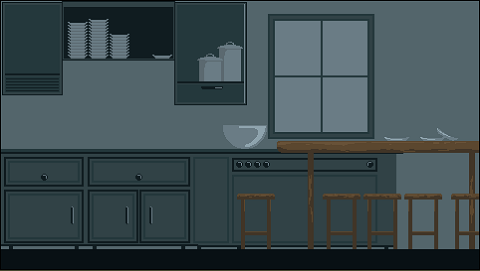
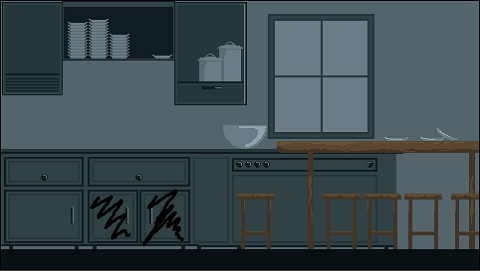
Made Kitchen Scene and Interactable

Changed region(s): [[0.1875, 0.679, 0.375, 0.9151]]

diff --git a/src/main/java/puntozero/liftoff/prefabs/Interactable.java b/src/main/java/puntozero/liftoff/prefabs/Interactable.java
@@ -1,0 +1,127 @@
+package puntozero.liftoff.prefabs;
+
+import processing.event.MouseEvent;
+import pxp.engine.core.GameObject;
+import pxp.engine.core.RectTransform;
+import pxp.engine.core.component.BoxCollider;
+import pxp.engine.core.component.Collider;
+import pxp.engine.core.component.Component;
+import pxp.engine.core.component.ui.Button;
+import pxp.engine.core.component.ui.Canvas;
+import pxp.engine.core.component.ui.Image;
+import pxp.engine.data.Vector2;
+import pxp.engine.data.Vector3;
+import pxp.engine.data.event.PXPEvent;
+import pxp.engine.data.event.PXPSingleEvent;
+import pxp.engine.data.ui.InteractableTransition;
+import pxp.engine.data.ui.RenderMode;
+import pxp.logging.Debug;
+
+import java.util.ArrayList;
+import java.util.List;
+
+public class Interactable extends GameObject
+{
+    private final PXPEvent onInteract;
+    private boolean canInteract = false;
+
+    private class InteractableHandler extends Component {
+        @Override
+        public void triggerEnter(Collider collider) {
+            if (!canInteract) return;
+            if (!collider.gameObject.name.equals("levelPlayer")) return;
+
+            onInteract.invoke();
+        }
+        @Override
+        public void triggerExit(Collider collider) {
+            if (!canInteract) return;
+            if (!collider.gameObject.name.equals("levelPlayer")) return;
+
+            onInteract.invoke();
+        }
+    }
+
+    public Interactable(
+            String name,
+            Vector2 offset,
+            Vector2 halfSize,
+            Image image,
+            PXPEvent onInteract) {
+        this(name, offset, halfSize, image, onInteract, new Component[0], new GameObject[0]);
+    }
+
+    public Interactable(
+            String name,
+            Vector2 offset,
+            Vector2 halfSize,
+            Image image,
+            PXPEvent onInteract,
+            Component[] components,
+            GameObject[] children) {
+        super(name);
+
+        this.onInteract = onInteract;
+
+        Component[] intComponents = new Component[] {
+            new Canvas(RenderMode.WORLD),
+            new InteractableHandler(),
+            new BoxCollider(offset, halfSize) {{
+                trigger = true;
+            }},
+        };
+
+        List<Component> allComponents = new ArrayList<>(List.of(components));
+        allComponents.addAll(List.of(intComponents));
+        this.setComponents(allComponents.toArray(new Component[0]));
+
+        List<GameObject> allChildren = new ArrayList<>(List.of(children));
+        allChildren.add(createButton(image));
+        this.setChildren(allChildren.toArray(new GameObject[0]));
+    }
+
+    private PXPSingleEvent<MouseEvent> onClick() {
+        return new PXPSingleEvent<>() {
+            @Override
+            public void invoke(MouseEvent mouseEvent) {
+                canInteract = true;
+            }
+        };
+    }
+
+    private GameObject createButton(Image image) {
+        image.usePixelsPerUnit = true;
+        Vector2 size = calcImageSize(image);
+
+        return new GameObject("intButton", new Component[] {
+            new Button(InteractableTransition.COLOR) {{
+                targetImage = image;
+                onClick = onClick();
+            }}
+        }, new GameObject[] {
+            new GameObject("intImage", new Component[] { image }) {{
+                transform = new RectTransform(
+                    new Vector2(0,0),
+                    new Vector3(0,0,0),
+                    new Vector2(1,1),
+                    size
+                );
+            }}
+        }) {{
+            transform = new RectTransform(
+                new Vector2(0,0),
+                new Vector3(0,0,0),
+                new Vector2(1,1),
+                size
+            );
+        }};
+    }
+
+    private Vector2 calcImageSize(Image image) {
+        Vector2 size = image.sprite.size.clone();
+        size.x /= (float) image.sprite.getPixelsPerUnit();
+        size.y /= (float) image.sprite.getPixelsPerUnit();
+
+        return size;
+    }
+}

diff --git a/src/main/java/puntozero/liftoff/scenes/KitchenScene.java b/src/main/java/puntozero/liftoff/scenes/KitchenScene.java
@@ -1,15 +1,20 @@
 package puntozero.liftoff.scenes;
 
 import puntozero.liftoff.prefabs.Exit;
+import puntozero.liftoff.prefabs.Interactable;
+import puntozero.liftoff.prefabs.LevelPlayer;
 import pxp.engine.core.GameObject;
 import pxp.engine.core.Scene;
+import pxp.engine.core.Transform;
 import pxp.engine.core.component.Camera;
 import pxp.engine.core.component.Component;
 import pxp.engine.core.component.SpriteRenderer;
+import pxp.engine.core.component.ui.Image;
 import pxp.engine.data.GameObjectSupplier;
 import pxp.engine.data.Vector2;
 import pxp.engine.data.assets.AssetManager;
 import pxp.engine.data.assets.SpriteAsset;
+import pxp.engine.data.event.PXPEvent;
 
 public class KitchenScene extends Scene
 {
@@ -25,7 +30,38 @@ public class KitchenScene extends Scene
                 new SpriteRenderer(AssetManager.get("kitchenBackground", SpriteAsset.class))
             }),
 
-            () -> new Exit(new Vector2(13f, 0f))
+            () -> new Exit(new Vector2(13f, 0f)),
+
+            () -> new Interactable("doorLeft",
+                new Vector2(),
+                new Vector2(1.6f, 1.6f),
+                new Image(AssetManager.get("doorLeft", SpriteAsset.class)),
+                new PXPEvent() {
+                    @Override
+                    public void invoke() {
+                        getGameObject("doorLeft").destroy();
+                    }
+                })
+            {{
+                transform = new Transform(new Vector2(-7.9f, 5.05f));
+            }},
+            () -> new Interactable("doorRight",
+                new Vector2(),
+                new Vector2(1.6f, 1.6f),
+                new Image(AssetManager.get("doorRight", SpriteAsset.class)),
+                new PXPEvent() {
+                    @Override
+                    public void invoke() {
+                        getGameObject("doorRight").destroy();
+                    }
+                })
+            {{
+                transform = new Transform(new Vector2(-4.7f, 5.05f));
+            }},
+
+            () -> new LevelPlayer() {{
+                transform = new Transform(new Vector2(0,5f));
+            }},
         };
 
         this.setGameObjects(suppliers);

diff --git a/src/main/java/puntozero/liftoff/Liftoff.java b/src/main/java/puntozero/liftoff/Liftoff.java
@@ -1,6 +1,7 @@
 package puntozero.liftoff;
 
 import puntozero.liftoff.scenes.KitchenScene;
+import puntozero.liftoff.scenes.LevelTestScene;
 import puntozero.liftoff.scenes.MapScene;
 import pxp.engine.core.Game;
 import pxp.engine.core.Scene;
@@ -21,9 +22,15 @@ public class Liftoff extends Game
         AssetManager.createSpriteSheet("mapPlayer", "map_player.png", 16, 10, 6);
         AssetManager.createSprite("map", "map.png", 16);
         AssetManager.createSprite("fill", "fill.png", 1);
-        AssetManager.createSprite("kitchenBackground", "kitchen/background.png", 16);
         AssetManager.createSprite("exit", "exit.png", 16);
         AssetManager.createSprite("circle", "circle.png", 1000);
+
+        AssetManager.createSprite("kitchenBackground", "kitchen/background.png", 16);
+        AssetManager.createSprite("doorLeft", "kitchen/door_left.png", 16);
+        AssetManager.createSprite("doorRight", "kitchen/door_right.png", 16);
+
+        AssetManager.createSpriteSheet("levelPlayer", "level_player.png", 16, 6, 15);
+
         // the asset path doesn't need to contain 'data/', but the
         // asset needs to be placed in a data directory
 
@@ -71,6 +78,7 @@ public class Liftoff extends Game
         return new Scene[] {
 //            new MapScene(),
             new KitchenScene(),
+//                new LevelTestScene()
         };
     }
 

diff --git a/src/main/java/puntozero/liftoff/prefabs/LevelPlayer.java b/src/main/java/puntozero/liftoff/prefabs/LevelPlayer.java
@@ -2,8 +2,10 @@ package puntozero.liftoff.prefabs;
 
 import puntozero.liftoff.components.LevelPlayerController;
 import pxp.engine.core.GameObject;
+import pxp.engine.core.component.BoxCollider;
 import pxp.engine.core.component.Component;
 import pxp.engine.core.component.SpriteRenderer;
+import pxp.engine.data.Vector2;
 import pxp.engine.data.assets.AssetManager;
 
 public class LevelPlayer extends GameObject
@@ -11,8 +13,11 @@ public class LevelPlayer extends GameObject
 
     public LevelPlayer() {
         super("levelPlayer", new Component[] {
-                new SpriteRenderer(AssetManager.getSpriteFromSheet("arrow", 60)),
-                new LevelPlayerController(),
+            new SpriteRenderer(AssetManager.getSpriteFromSheet("levelPlayer", 0)),
+            new LevelPlayerController(),
+            new BoxCollider(new Vector2(), new Vector2(1f,1f)) {{
+                trigger = true;
+            }}
         });
     }
 }

diff --git a/src/main/java/puntozero/liftoff/prefabs/Exit.java b/src/main/java/puntozero/liftoff/prefabs/Exit.java
@@ -30,7 +30,7 @@ public class Exit extends GameObject
 
         @Override
         public void triggerEnter(Collider col) {
-            if (!col.gameObject.name.equals("levelPlayerTrigger")) return;
+            if (!col.gameObject.name.equals("levelPlayer")) return;
 
             renderer.color.setA(255);
             this.exitButton.isActive = true;
@@ -38,7 +38,7 @@ public class Exit extends GameObject
 
         @Override
         public void triggerExit(Collider col) {
-            if (!col.gameObject.name.equals("levelPlayerTrigger")) return;
+            if (!col.gameObject.name.equals("levelPlayer")) return;
 
             renderer.color.setA(0);
             this.exitButton.isActive = false;

diff --git a/src/main/java/puntozero/liftoff/scenes/LevelTestScene.java b/src/main/java/puntozero/liftoff/scenes/LevelTestScene.java
@@ -25,8 +25,8 @@ public class LevelTestScene extends Scene
     public LevelTestScene() {
         super();
 
-        AssetManager.createSprite("kitchenBackground", "data/MINI_map.png", 16);
-        AssetManager.createSpriteSheet("arrow", "data/IconsFlat-16.png", 16, 10, 10);
+//        AssetManager.createSprite("kitchenBackground", "data/MINI_map.png", 16);
+
 
         GameObjectSupplier[] suppliers = new GameObjectSupplier[] {
             () -> new GameObject("camera", new Component[]{
